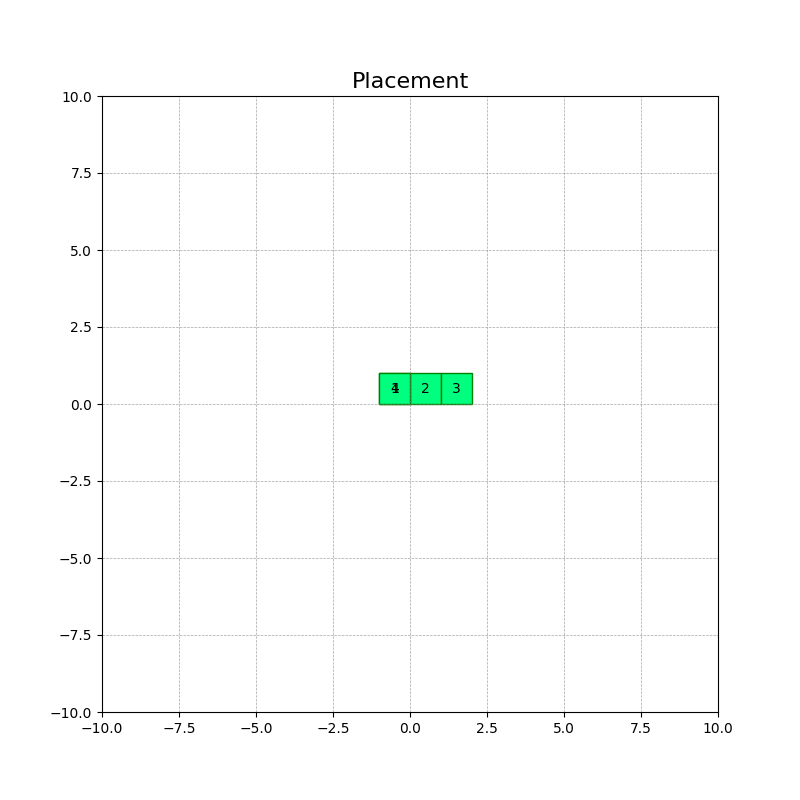
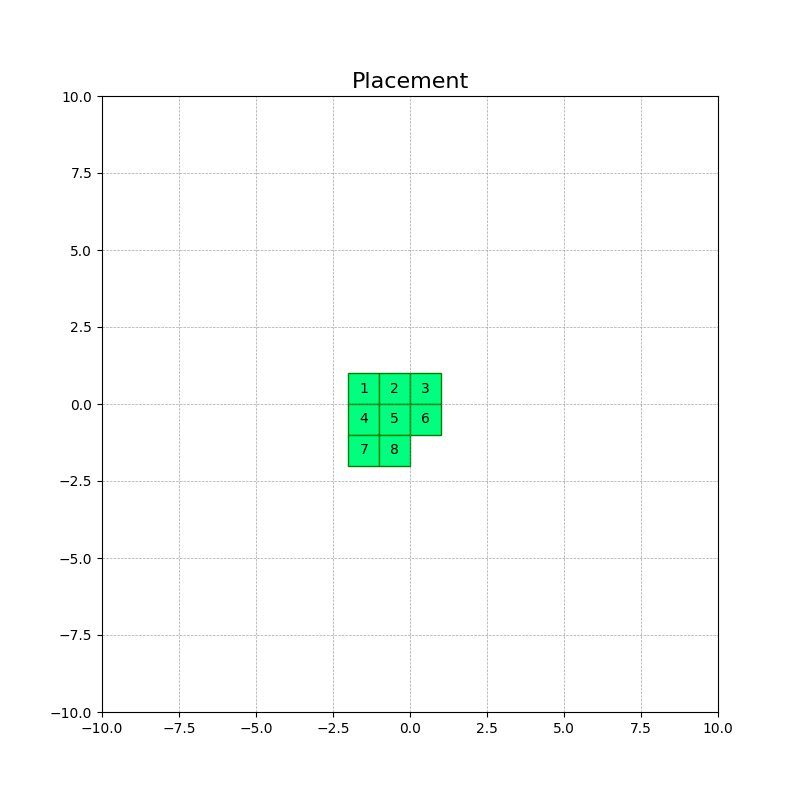
new approch

Changed region(s): [[0.4062, 0.4375, 0.5938, 0.5938]]

diff --git a/custom_placement_algorithm/custom_placement_algorithm.py b/custom_placement_algorithm/custom_placement_algorithm.py
@@ -42,42 +42,62 @@ class CustomPlacement:
         #    self.component_positions.append(np.array([0, 0]))
         #self.component_positions = np.array(self.component_positions, dtype=np.int32)
 
-        n = 4
+        n = 8
         positions = self.generate_symmetric_grid(n)
         for pos in positions:
             self.component_positions.append(pos)
-        self.component_positions = np.array(self.component_positions, dtype=np.int32)
+        self.component_positions = np.array(self.component_positions, dtype=np.float32)
 
         # Debug
         self.plot_placement(plot_name="custom_placement_algorithm/ok_placement.png")
         print(self.component_positions)
 
-
     def generate_symmetric_grid(self, n):
         positions = []
-
-        # Determine the number of rows and columns
-        cols = math.ceil(math.sqrt(n))  # Approximate square grid
+        cols = math.ceil(math.sqrt(n))
         rows = math.ceil(n / cols)
-        print(rows)
-        print(cols)
+        start_row = 0
+        extra_cols = 0
+        divider = 2
+        divider_2 = 2
+        extra_row = 0
 
-        y_offset = (rows - 1) / 2
+        if n % 2 != 0:
+            positions.append((-0.5, 0))
+            start_row = 1
+
+        if n % 3 != 0:
+            extra_row = 1
+
+        if n % 5 == 0 or n % 7 == 0:
+            divider = 4
+
+        if n % 6 == 0:
+            extra_cols = 1
+            extra_row = 1
+            divider_2 = 4
+
+        if n % 9 == 0:
+            extra_row = 2
+
+        if n % 10 == 0:
+            start_row = -1
+            divider_2 = 4
+            divider = 4
+
 
         count = 0
-        for row in range(rows):
-            for col in range(-(cols // 2), (cols // 2) + 1):  # Symmetric range around 0
+        for row in range(start_row, rows + extra_row):
+            for col in range(-cols // divider + extra_cols, cols // divider_2 + extra_cols):
+                # prevent extra
                 if count >= n:
                     break
-
-                x = col
-                y = y_offset - row  # Inverted y to have (0,0) at center
-
-                # Add the point
-                positions.append((x, y))
+                positions.append((col, -row))
                 count += 1
 
         return positions
+
+
 
 
 
